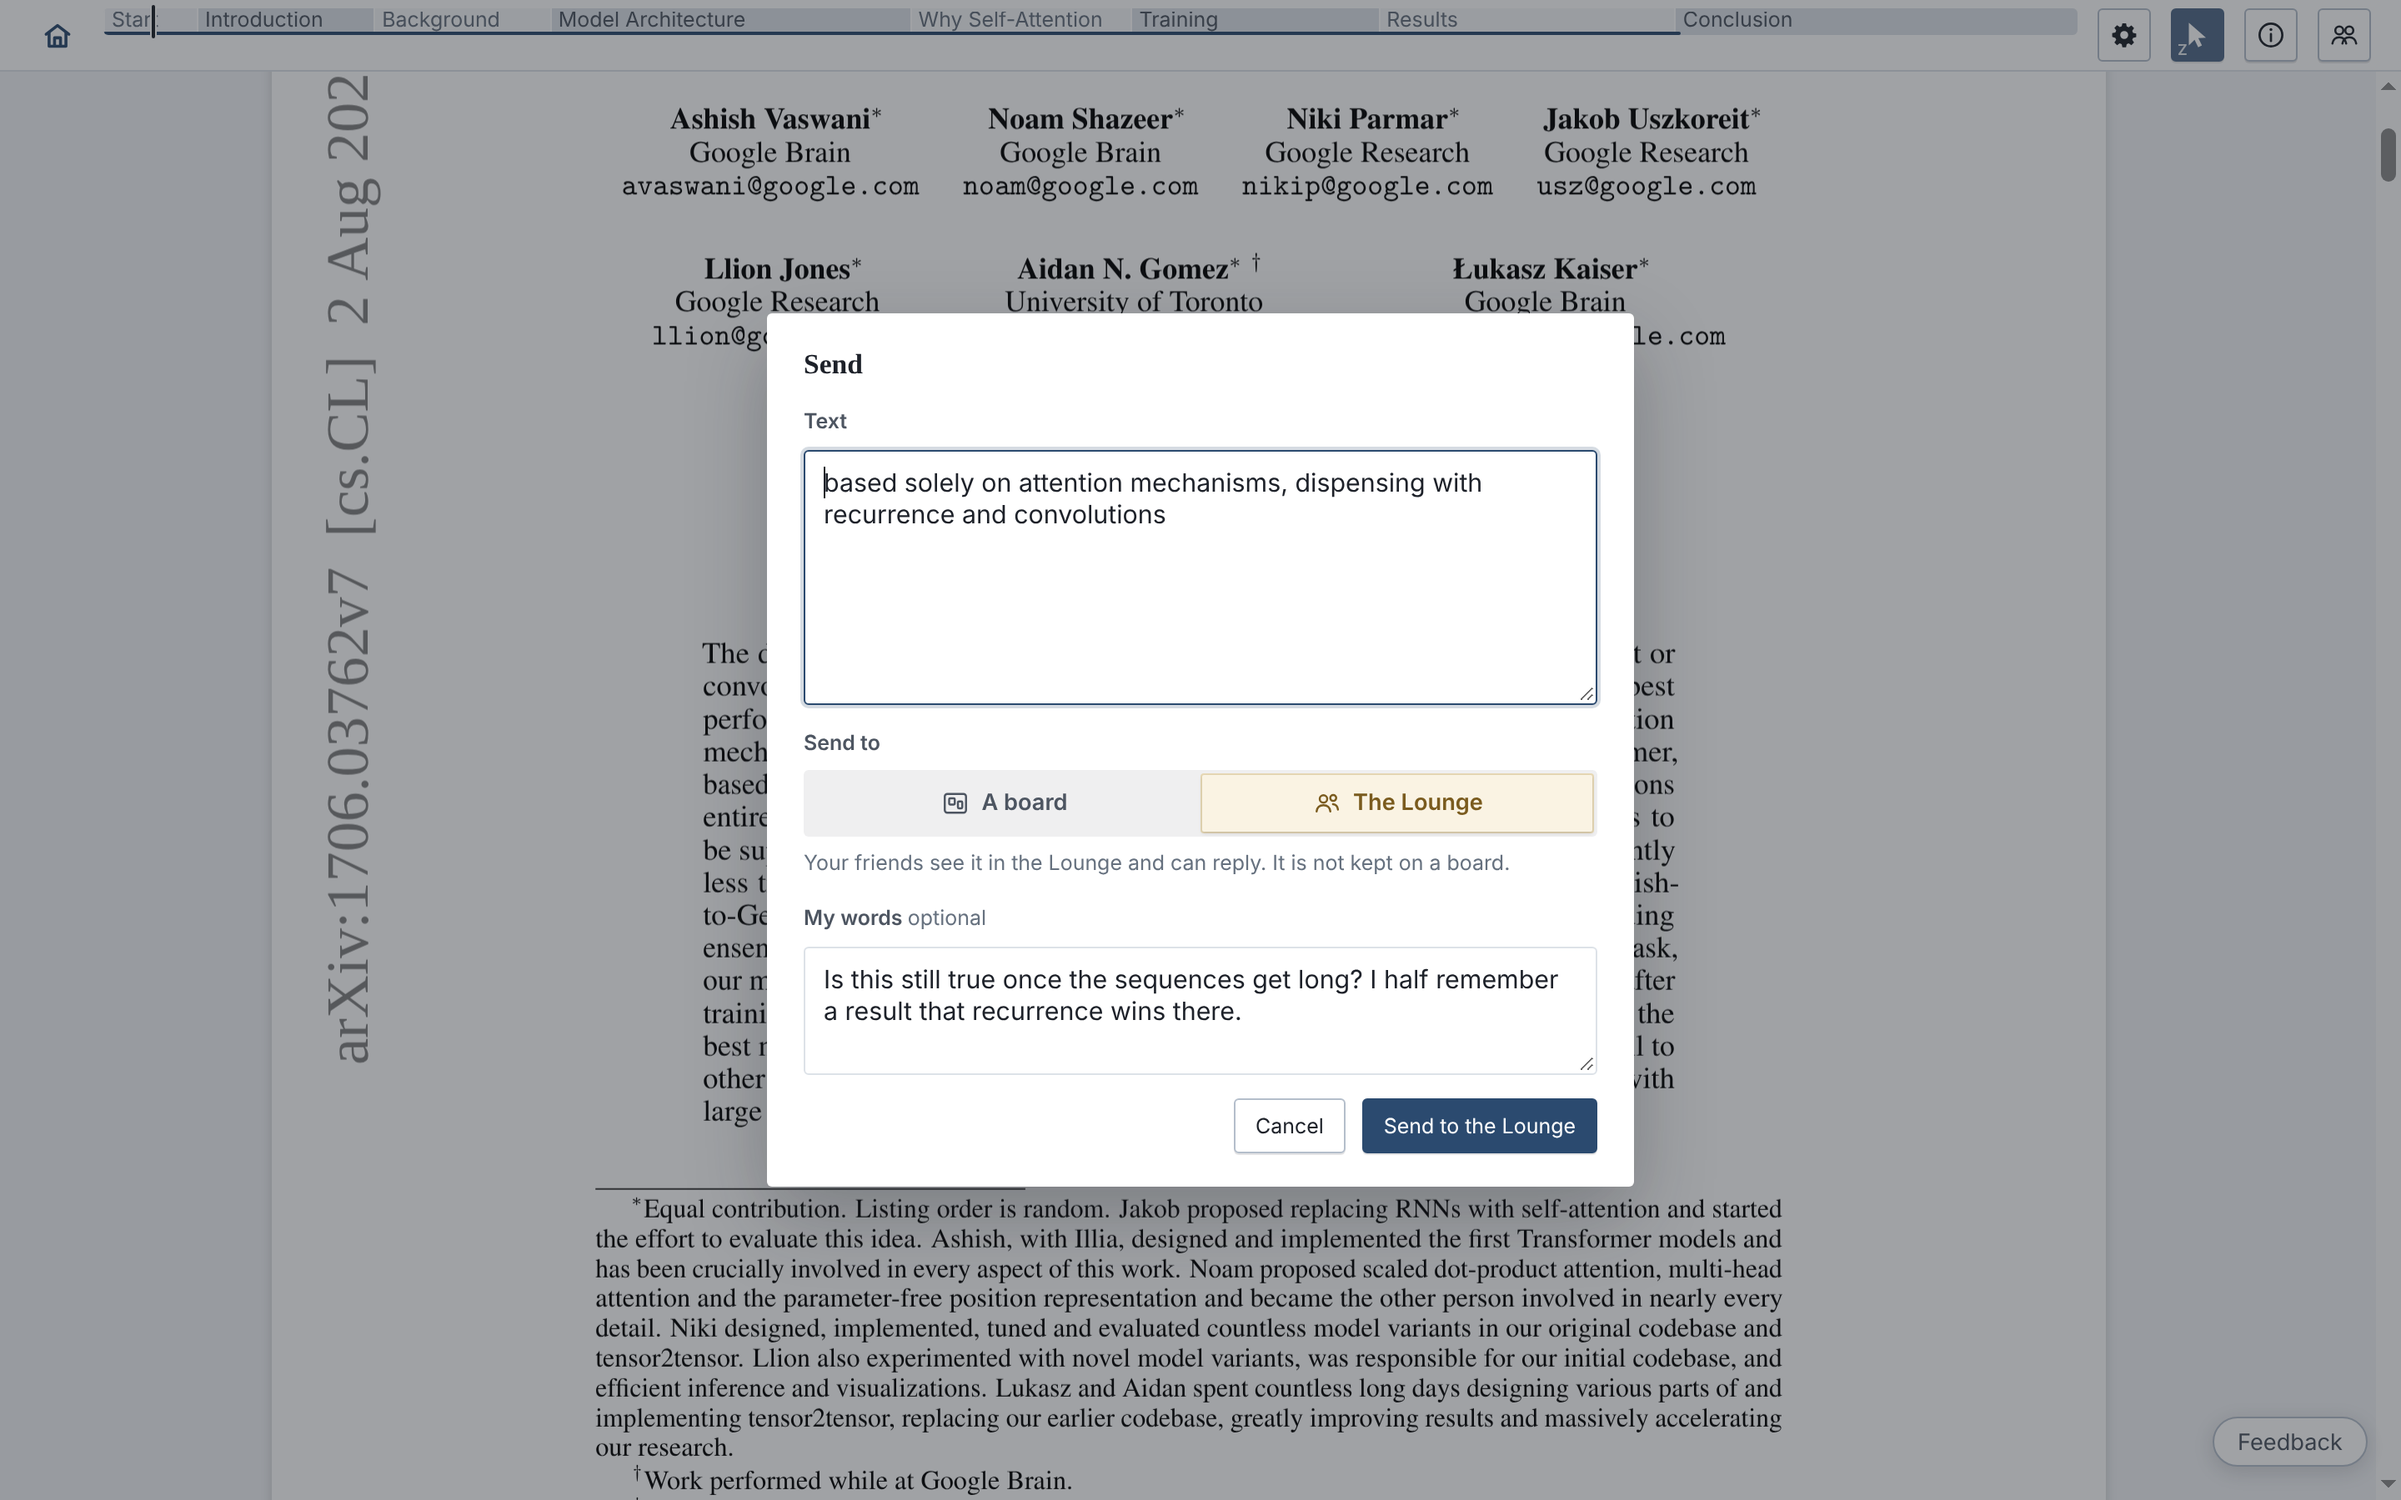
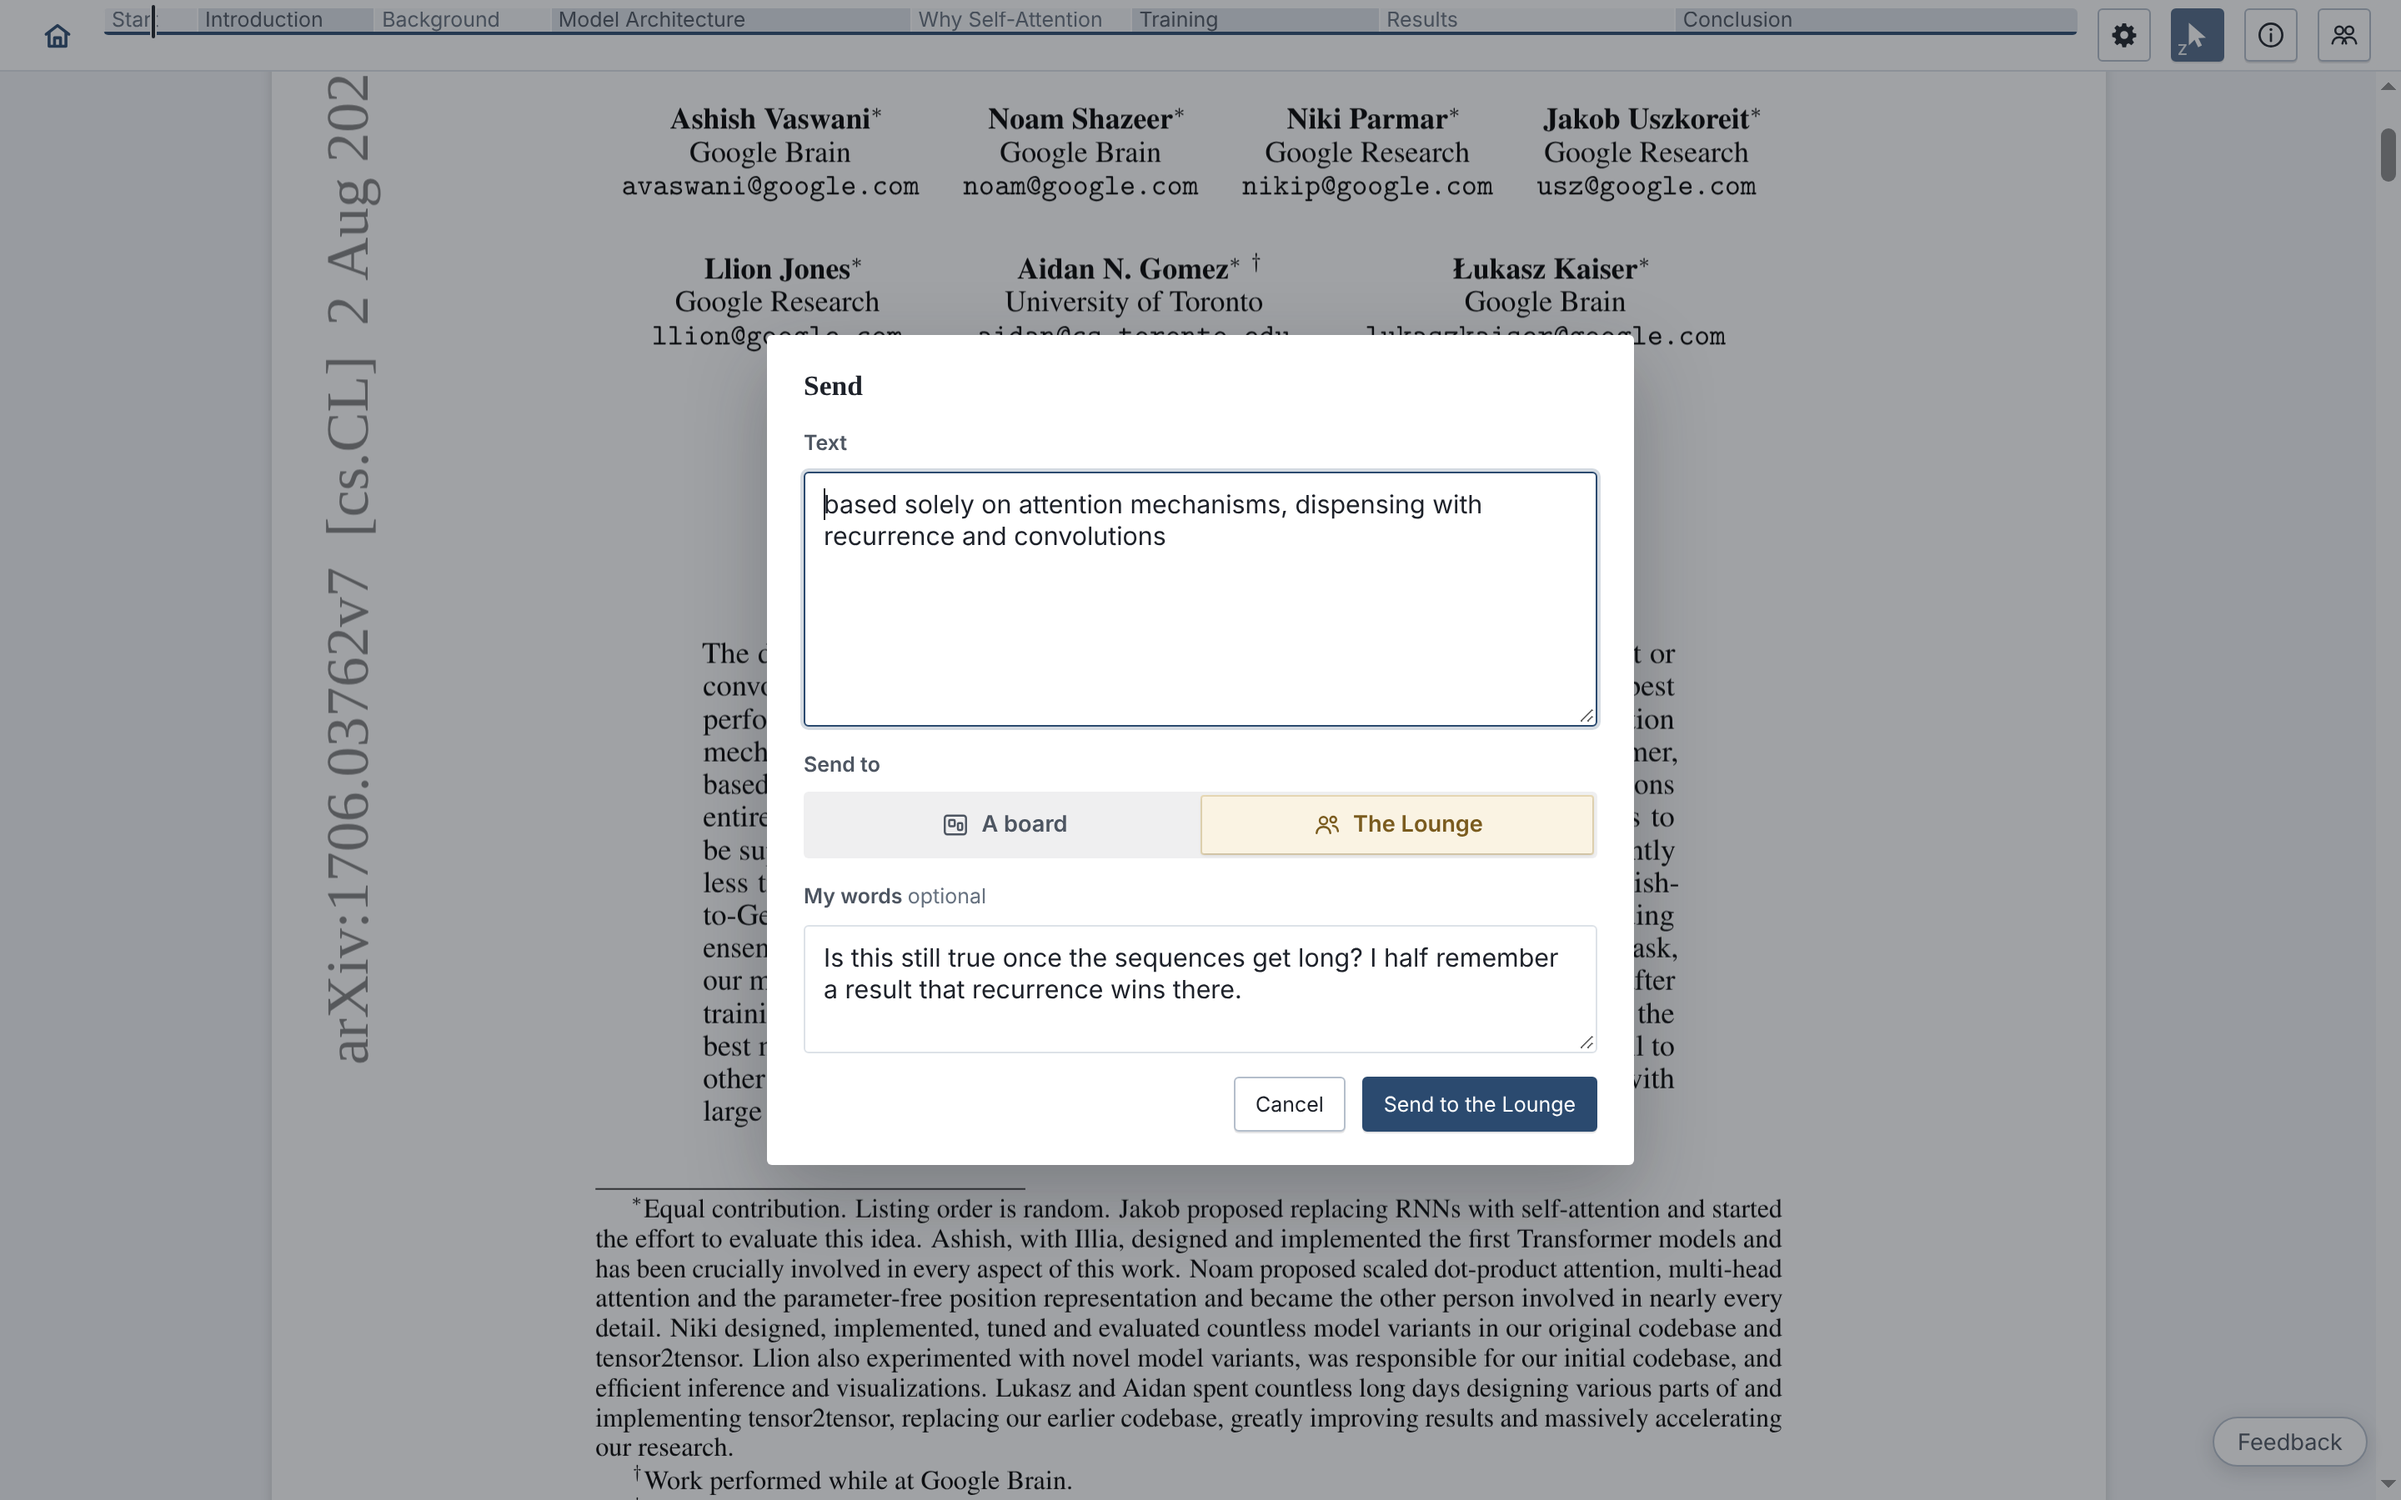
The send sheet says nothing under the switch and prompts nothing in the comment box
The line on who sees a send to the Lounge is gone, and so is the grey
prompt in the comment box, on a board and in the Lounge alike. The
tutorial recorders find the comment box by its rows, not by the prompt.

Claude-Session: https://claude.ai/code/session_01PQZzMWmHL79ngnYoVn8tYE

Changed region(s): [[0.3125, 0.4667, 0.6875, 0.6844], [0.3125, 0.1867, 0.6875, 0.3733], [0.3125, 0.7156, 0.6875, 0.8089]]

diff --git a/viewer/src/App.jsx b/viewer/src/App.jsx
@@ -5652,8 +5652,7 @@ export default function App() {
                   {/* Where it goes: one of the reader's own boards, or the
                       Lounge, for friends to reply to. One or the other, so
                       the two are the halves of one switch, and what belongs
-                      to the chosen half sits under it: the list of boards,
-                      or who will see it. */}
+                      to a board sits under it: the list of boards. */}
                   {source?.threads ? (
                     <div className="send-selection-field">
                       <span id="send-to-label">Send to</span>
@@ -5685,21 +5684,17 @@ export default function App() {
                           </span>
                         </label>
                       </div>
-                      {sendTo === LOUNGE ? (
-                        <p className="send-to-note">Your friends see it in the Lounge and can reply. It is not kept on a board.</p>
-                      ) : (
-                        <select
-                          aria-label="Board"
-                          value={sendTo}
-                          onChange={(event) => setSendTo(event.target.value)}
-                          disabled={!sendBoards.length}
-                        >
-                          {!sendBoards.length && <option value="">No boards yet</option>}
-                          {sendBoards.map((candidate) => (
-                            <option key={candidate.uuid} value={candidate.uuid}>{candidate.name}</option>
-                          ))}
-                        </select>
-                      )}
+                      {sendTo !== LOUNGE && <select
+                        aria-label="Board"
+                        value={sendTo}
+                        onChange={(event) => setSendTo(event.target.value)}
+                        disabled={!sendBoards.length}
+                      >
+                        {!sendBoards.length && <option value="">No boards yet</option>}
+                        {sendBoards.map((candidate) => (
+                          <option key={candidate.uuid} value={candidate.uuid}>{candidate.name}</option>
+                        ))}
+                      </select>}
                     </div>
                   ) : (
                     <label className="send-selection-field">
@@ -5723,7 +5718,6 @@ export default function App() {
                       maxLength={sendTo === LOUNGE ? appLimits.text.thread_words : appLimits.text.board_content}
                       value={sendSelection.comment}
                       onChange={(event) => setSendSelection({ ...sendSelection, comment: event.target.value })}
-                      placeholder={sendTo === LOUNGE ? 'What do you make of it?' : 'Why are you saving this?'}
                     />
                   </label>
                   {sendTo !== LOUNGE && <p className="send-selection-source">

diff --git a/viewer/src/styles.js b/viewer/src/styles.js
@@ -1913,9 +1913,8 @@ body:has(.pages.with-margin) .feedback-button { right: auto; left: 20px; }
 }
 /* Where a send goes: a board or the Lounge, never both, so the two are
    the halves of one switch (a pair of radio buttons under the paint). The
-   chosen half is the raised one, the Lounge's in the Lounge's gold. What
-   belongs to the choice sits under it: the list of boards, or a line on
-   who sees it. */
+   chosen half is the raised one, the Lounge's in the Lounge's gold. The
+   list of boards sits under it while it is set to a board. */
 .send-to {
   display: grid;
   grid-template-columns: 1fr 1fr;
@@ -1942,7 +1941,6 @@ body:has(.pages.with-margin) .feedback-button { right: auto; left: 20px; }
 .send-to-choice.is-lounge input:checked + span { background: var(--gold-soft); color: var(--gold-ink); box-shadow: 0 1px 2px rgba(var(--shade-rgb), .16), 0 0 0 1px var(--gold-line); }
 .send-to-choice input:focus-visible + span { outline: 2px solid var(--accent); outline-offset: 1px; }
 .send-selection-field .send-to + select { margin-top: 3px; }
-.send-to-note { margin: 3px 0 0; color: var(--ink-faint); font: 400 var(--fs-xs)/1.45 var(--font-ui); }
 @media (hover: none) { .send-to-choice span { height: 40px; } }
 /* After a send to the Lounge: the way there, beside Done. */
 .send-selection-lounge { align-self: center; margin-right: auto; color: var(--accent); font: 500 var(--fs-sm) var(--font-ui); text-decoration: none; }

diff --git a/USER_STORIES.md b/USER_STORIES.md
@@ -246,7 +246,7 @@ A friend is someone I chose, who chose me back. Friendship is the third audience
 
 **Threads**
 
-- **US-10.18** **I can send what I select in a paper to the Lounge.** Words I selected, a passage I painted or a clip I cut are sent from the same Send button that sends them to a board: its sheet's *Send to* is a switch of two halves, **A board** and **The Lounge**, because a send goes to one or the other and never both. The chosen half is the raised one, the Lounge's in the Lounge's gold, and what belongs to it sits under the switch: the list of my boards, or a line saying my friends see it in the Lounge and it is not kept on a board. The sheet takes words of my own if I have any (*My words*, optional). Once sent, the sheet says so and offers the way to the Lounge, and nothing more. What I send starts a **thread**: the passage or the picture, the paper's title, a link that opens the paper at that place with the passage lit, and my words. Free talk about a place in a paper: it has no phase, no votes and no counts of approval.
+- **US-10.18** **I can send what I select in a paper to the Lounge.** Words I selected, a passage I painted or a clip I cut are sent from the same Send button that sends them to a board: its sheet's *Send to* is a switch of two halves, **A board** and **The Lounge**, because a send goes to one or the other and never both. The chosen half is the raised one, the Lounge's in the Lounge's gold, and while it is set to a board the list of my boards sits under the switch. The sheet takes words of my own if I have any (*My words*, optional). Once sent, the sheet says so and offers the way to the Lounge, and nothing more. What I send starts a **thread**: the passage or the picture, the paper's title, a link that opens the paper at that place with the passage lit, and my words. Free talk about a place in a paper: it has no phase, no votes and no counts of approval.
 - **US-10.18a** **I can start a thread in the Lounge itself.** The Lounge opens with a box, *Start a thread*: one line at rest, softly tinted, with a pen glyph, which opens with its bar when I click into it and closes again if I leave it empty. What I write there is formatted as I type, and a bar under it puts the marks in for me: bold, italic, strikethrough, code, a link, a bulleted or numbered list, a quote (⌘B, ⌘I and ⌘K do the first three I would reach for). From the same bar, by pasting, or by dropping them on the box, I attach **pictures and files**: up to 8, each up to 25 MB, each uploaded as I add it and removable before I send. Sent, it is a thread from no paper, the room's newest row at once. Its row shows my words as one plain line and says what is attached; its jacket shows my words formatted, the pictures (each opening whole), and the files by name to open, with no passage, no paper and nothing to open in one. Words, attachments or both make a thread. It is seen and replied to as any thread is (US-10.20), and what I attached goes when I remove it. The box is there once I have a friend to read it.
 - **US-10.19** **A thread is one row in the Lounge**, marked *Thread*: the sender's words (or the passage, when they wrote none), the paper and page, how many replies, and the faces of everyone who spoke in it. Pressing it opens the thread's **jacket**, a page of its own at `/thread/<uuid>` as a paper and a board have: the passage as a quotation (or the clip), who sent it and when, the paper and page with **Open in the paper** leading to that place, everything said in order, and a box to **reply**. Its Back leads to the Lounge, wherever the jacket was opened from. My own threads are in my Lounge too, so I read the replies. A thread started, or a reply by someone else, wears the gold dot until I have opened the Lounge. *Threads* in the rail's Show narrows the room to them.
 - **US-10.19a** **I can reword what I said in a thread.** On a thread's jacket my own words wear a pencil, as a post in a dig does: a reply of mine beside its bin, and the words I sent a thread with on their own line. It opens them in place in the same formatted box, with **Save** (⌘↩) and **Cancel** (Esc). A thread I sent from a paper with no words of my own has the pencil at the top beside its bin, *Add words of your own*; such a thread can lose its words again, while one started in the Lounge keeps some unless it has a file. Only the words change: the passage or clip, the place in the paper and what I attached stay as sent. Nobody rewords what someone else said, and rewording is not news: no gold dot, and the thread keeps its place in the room.
